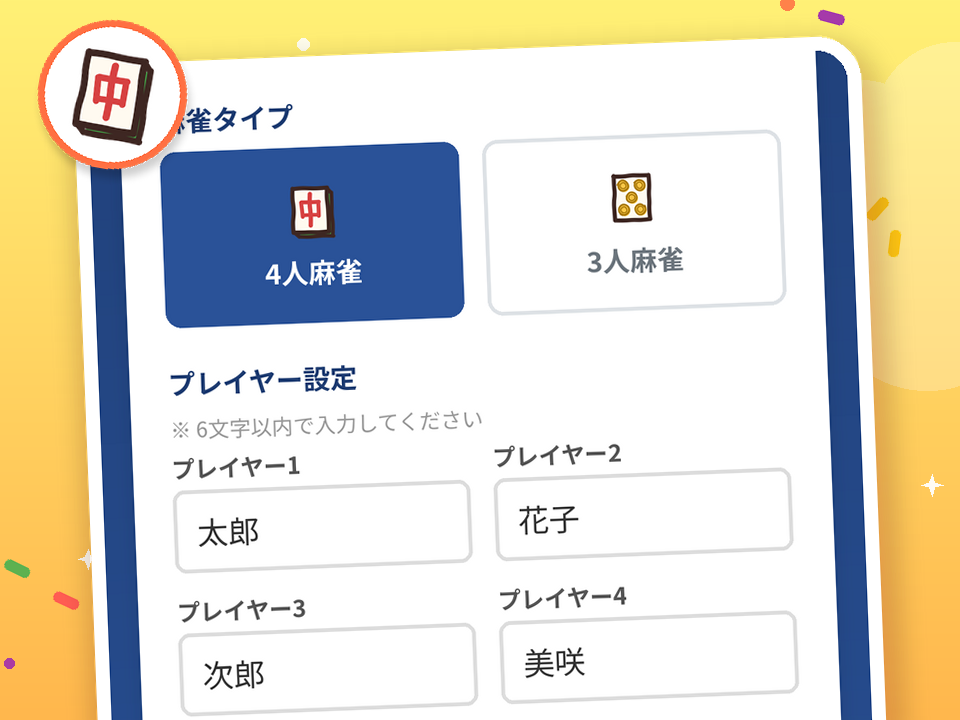
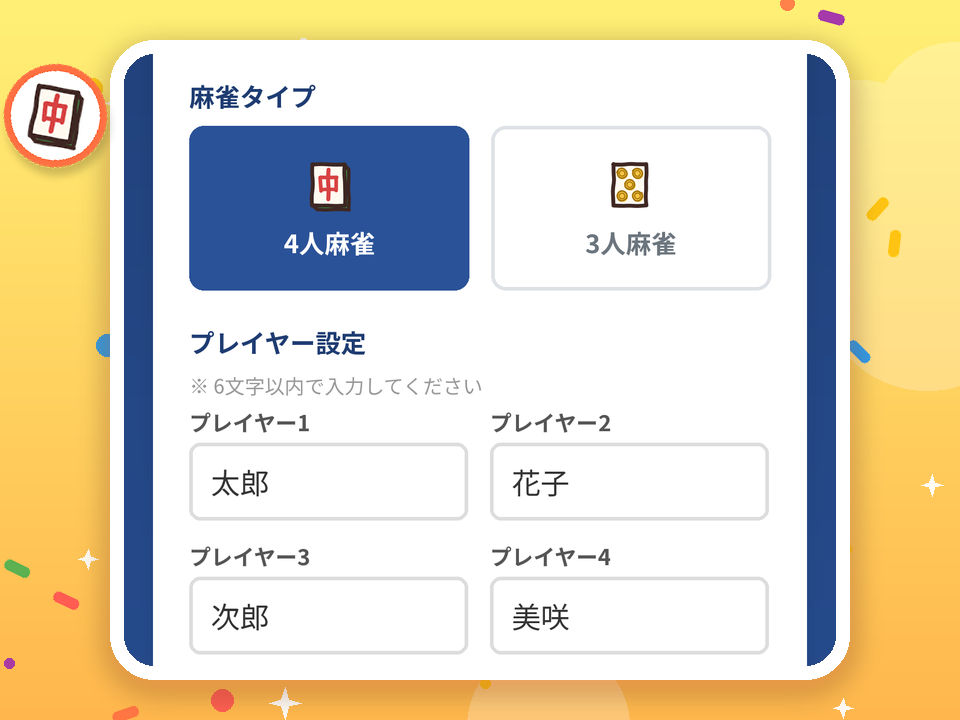
使い方ガイド画像のカードを傾けずに中央へ配置して再生成 (#80)
Claude-Session: https://claude.ai/code/session_01QezeZoy8D1aq51f5u6f2qu

Changed region(s): [[0.0, 0.0306, 0.9375, 1.0]]

diff --git a/generate_assets.py b/generate_assets.py
@@ -1342,14 +1342,19 @@ YELLOW_LIVE = (249, 168, 37)  # #f9a825
 # ──────────────────────────────────────────────
 # 使い方のモーダルは正方形に近い比率で表示するため、画像は 4:3 で作る（Issue #72）。
 # Issue #74: 明るく楽しいトーンに作り替え。ページごとのパステル調のグラデーション背景に
-# 紙吹雪を散らし、各ページで説明する部分の画面を「カード」として少し傾けて載せ、
+# 紙吹雪を散らし、各ページで説明する部分の画面を「カード」として載せ、
 # アプリの手書き風アイコンをステッカーのように貼る。説明文はアプリ側で一言だけ添える。
+# Issue #80: カードは傾けず、全体が画像内に収まるよう中央に均等な余白で配置する
+# （傾きのせいで端に寄り、文字が見切れていたため）。
 
 GUIDE_ASPECT = 3 / 4          # 高さ / 幅（出力画像）
 GUIDE_OUT_W = 960             # 出力する画像の幅（px）
-GUIDE_CARD_W = 760            # 画面カードの幅（px）
-GUIDE_CARD_TOP = 64           # 画面カードの上端（px）。下端は画像の外まではみ出させる
-GUIDE_CARD_ASPECT = (GUIDE_OUT_W * GUIDE_ASPECT - GUIDE_CARD_TOP + 40) / GUIDE_CARD_W  # 切り出す高さ / 幅
+GUIDE_CARD_BORDER = 14        # カードの白いフチ（px）
+GUIDE_CARD_MARGIN_Y = 40      # カード（フチ込み）の上下の余白（px）。上下で同じ
+GUIDE_CARD_ASPECT = 0.86      # 切り出す画面の 高さ / 幅（従来とほぼ同じ範囲が見えるように）
+# 画面の高さは上下の余白から決め、幅は比率から決める。左右の余白は中央寄せで同じになる
+GUIDE_CARD_H = int(round(GUIDE_OUT_W * GUIDE_ASPECT)) - 2 * GUIDE_CARD_MARGIN_Y - 2 * GUIDE_CARD_BORDER
+GUIDE_CARD_W = int(round(GUIDE_CARD_H / GUIDE_CARD_ASPECT))
 GUIDE_SEED = 74
 
 # ページごとの明るい配色（背景グラデーション上・下、アクセント）。SetupScreen の GUIDE_THEMES と揃える
@@ -1415,15 +1420,14 @@ def save_guide(sc, top_dp, output_path, index):
     top = max(0.0, min(top_dp, sc.hdp - crop_h))
     box = (0, sc.px(top), sc.w, sc.px(top) + int(round(sc.w * GUIDE_CARD_ASPECT)))
     shot = img.crop(box).convert('RGBA')
-    cw = GUIDE_CARD_W
-    ch = int(round(cw * GUIDE_CARD_ASPECT))
+    cw, ch = GUIDE_CARD_W, GUIDE_CARD_H
     shot = shot.resize((cw, ch), Image.LANCZOS)
 
     out, accent = _guide_background(index)
     W, H = out.size
 
-    # カード: 白い太めのフチ + 角丸 + やわらかい影。左右交互に少しだけ傾ける
-    border = 14
+    # カード: 白い太めのフチ + 角丸 + やわらかい影。傾けずに中央へ置く（Issue #80）
+    border = GUIDE_CARD_BORDER
     radius = 30
     card = Image.new('RGBA', (cw + border * 2, ch + border * 2), (0, 0, 0, 0))
     ImageDraw.Draw(card).rounded_rectangle((0, 0, card.width - 1, card.height - 1), radius=radius + border,
@@ -1431,22 +1435,19 @@ def save_guide(sc, top_dp, output_path, index):
     mask = Image.new('L', shot.size, 0)
     ImageDraw.Draw(mask).rounded_rectangle((0, 0, cw - 1, ch - 1), radius=radius, fill=255)
     card.paste(shot, (border, border), mask)
-    angle = 2.2 if index % 2 == 0 else -2.2
-    pad = 60
-    holder = Image.new('RGBA', (card.width + pad * 2, card.height + pad * 2), (0, 0, 0, 0))
-    shadow = Image.new('RGBA', holder.size, (0, 0, 0, 0))
-    ImageDraw.Draw(shadow).rounded_rectangle((pad + 6, pad + 14, pad + card.width + 6, pad + card.height + 14),
+    card_x = (W - card.width) // 2
+    card_y = (H - card.height) // 2
+    shadow = Image.new('RGBA', (W, H), (0, 0, 0, 0))
+    ImageDraw.Draw(shadow).rounded_rectangle((card_x, card_y + 8, card_x + card.width, card_y + card.height + 8),
                                              radius=radius + border, fill=accent + (110,))
-    shadow = shadow.filter(ImageFilter.GaussianBlur(16))
-    holder.alpha_composite(shadow)
-    holder.alpha_composite(card, dest=(pad, pad))
-    holder = holder.rotate(angle, resample=Image.BICUBIC)
-    cx = W // 2
-    out.alpha_composite(holder, dest=(cx - holder.width // 2, GUIDE_CARD_TOP - border - pad))
+    shadow = shadow.filter(ImageFilter.GaussianBlur(14))
+    out.alpha_composite(shadow)
+    out.alpha_composite(card, dest=(card_x, card_y))
 
-    # 手書き風アイコンのステッカー（白い丸の台紙に貼って、カードの角に重ねる）
+    # 手書き風アイコンのステッカー（白い丸の台紙に貼る）
+    # Issue #80: カードの中身を隠さないよう、左右の余白に収まる大きさで余白の中に貼る
     sticker = ICONS[GUIDE_STICKERS[index]]
-    sr = 74
+    sr = min(56, card_x // 2 - 4)
     disc = Image.new('RGBA', (sr * 2 + 40, sr * 2 + 40), (0, 0, 0, 0))
     dd = ImageDraw.Draw(disc)
     dd.ellipse((20 + 4, 20 + 8, 20 + sr * 2 + 4, 20 + sr * 2 + 8), fill=(0, 0, 0, 50))
@@ -1463,8 +1464,9 @@ def save_guide(sc, top_dp, output_path, index):
     disc.alpha_composite(ic, dest=(20 + sr - ic.width // 2, 20 + sr - ic.height // 2))
     left = GUIDE_STICKER_LEFT[index]
     disc = disc.rotate(-10 if left else 10, resample=Image.BICUBIC)
-    sx = 18 if left else W - disc.width - 18
-    out.alpha_composite(disc, dest=(sx, 0))
+    scx = card_x // 2 if left else W - card_x // 2
+    scy = card_y + sr + 24
+    out.alpha_composite(disc, dest=(scx - disc.width // 2, scy - disc.height // 2))
 
     out = out.convert('RGB')
     out.save(output_path, 'PNG', optimize=True)
